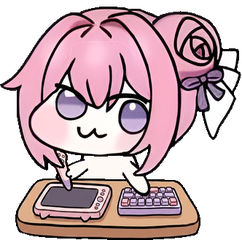
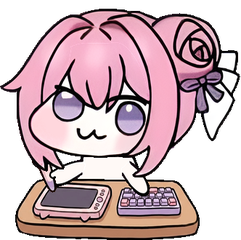
update v1786695753

diff --git a/mascot.py b/mascot.py
@@ -3537,6 +3537,9 @@ class Mascot:
         self._room_art_th = None
         self._photo_after = None     # 단체사진 안내 예약
         self._room_ask_win = None    # 홈에 처음 들어갈 때 묻는 창
+        self._room_pick = None       # 방에서 고른 사람 (없으면 방 전체)
+        self._room_btn_hit = []      # 아래 단추 자리
+        self._room_sent = None
         self._sl_fg = 0.0            # 앞 창을 마지막으로 확인한 시각
         # 물성은 종류마다 다르다. 꺼낼 때 정하지만 여기서도 만들어 둔다
         # (조건문 뒤쪽에서 처음 만들면 몇 분 뒤에 터진다 — 지뢰 13).
@@ -12239,7 +12242,7 @@ class Mascot:
         "parts_dororong_gift": ("dororong-mascot", "parts_dororong_gift"),
         "parts_dororong": ("dororong-mascot", "parts_dororong_gift"),
     }
-    ROOM_COLS, ROOM_CW, ROOM_CH, ROOM_TOP = 3, 230, 236, 62
+    ROOM_COLS, ROOM_CW, ROOM_CH, ROOM_TOP = 3, 230, 248, 62
     ROOM_FIG = 112               # 방에서 캐릭터를 그리는 높이(px)
 
     def _room_on(self):
@@ -12259,10 +12262,16 @@ class Mascot:
             st = "work"
         else:
             st = "away"
+        now = time.time()
+        act = ""
+        if st == "work":
+            # 최근에 무엇을 만졌는지 — 방에서 그 자세로 보여 준다
+            act = "key" if (now - self.last_pointer > 2.0
+                            and now - self.last_key < 1.8) else "pen"
         return {"n": self._room_nick()[:14], "lv": self._level(),
                 "ti": self._title()[:14], "t": int(today // 60), "s": st,
                 "p": round(min(1.0, today / goal), 3),
-                "sl": bool(self.slime)}
+                "a": act, "sl": bool(self.slime)}
 
     def _room_start(self):
         if self.room_net is not None or not self._room_on():
@@ -12320,6 +12329,10 @@ class Mascot:
             self._say("%s가 담요를 덮어 줬어요" % who if who else "담요를 덮어 줬어요",
                       3.5)
             self.smile_until = max(self.smile_until, now + 3.0)
+        elif kind == "cheer":
+            self.smile_until = max(self.smile_until, now + 3.0)
+            self._say("%s가 응원했어요" % who if who else "누가 응원했어요", 3.5)
+            self._safe("room_cheer", self._burst, 10, 26)
         elif kind == "snack":
             self._say("%s가 간식을 놓고 갔어요" % who if who else "간식이 놓여 있어요",
                       3.5)
@@ -12344,7 +12357,8 @@ class Mascot:
             slot = p.get("slot") or ""
             if slot not in self.ROOM_ART or slot in self._room_art_bad:
                 continue
-            for tag in ("seat", "seat_idle"):
+            for tag in ("seat", "seat_idle", "seat_type", "seat_pen",
+                        "seat_pen2"):
                 if os.path.isfile(os.path.join(HERE, slot, tag + ".png")):
                     continue                      # 원본이 여기 있다
                 if not os.path.isfile(os.path.join(self._room_art_dir(),
@@ -12384,6 +12398,8 @@ class Mascot:
         if got is not None:
             return got
         p = os.path.join(self._room_art_dir(), "%s_%s.png" % (slot, tag))
+        if not os.path.isfile(p) and tag not in ("seat", "seat_idle"):
+            return self._room_img(slot, "seat")     # 옛 배포본 — 기본 자세로
         if not os.path.isfile(p):
             # 그 캐릭터 폴더가 내 컴퓨터에 있으면 받아 올 것도 없다
             # (원본을 쓰는 쪽. 친구들은 배포 레포에서 받는다)
@@ -12411,17 +12427,17 @@ class Mascot:
     def _room_palette(self):
         """시간에 따라 방 분위기가 바뀐다 (작업일 기준이 아니라 시계 기준)."""
         h = time.localtime().tm_hour
-        if 6 <= h < 17:
-            return {"wall": "#f7eee4", "dot": "#f1e6d9", "card": "#fffdfa",
-                    "line": "#f0e5d8", "ink": "#68564c", "sub": "#a29186",
-                    "bar": "#fffbf5", "lamp": "#ffe2a8"}
-        if 17 <= h < 20:
-            return {"wall": "#f6e6da", "dot": "#efdccc", "card": "#fffaf3",
-                    "line": "#eeddcc", "ink": "#6b4f42", "sub": "#a89083",
-                    "bar": "#fff7ee", "lamp": "#ffcf8a"}
-        return {"wall": "#e7e3ef", "dot": "#ded9ea", "card": "#faf8ff",
-                "line": "#ddd6ea", "ink": "#4e485e", "sub": "#8d879c",
-                "bar": "#f4f1fa", "lamp": "#cfd6ff"}
+        if 6 <= h < 17:                      # 낮 — 아주 연한 핑크
+            return {"wall": "#fdf2f6", "dot": "#f8e6ee", "card": "#fffcfd",
+                    "line": "#f6e2ea", "ink": "#6f5460", "sub": "#a8919c",
+                    "bar": "#fffafc", "lamp": "#ffd9e6"}
+        if 17 <= h < 20:                     # 저녁 — 조금 더 따뜻하게
+            return {"wall": "#fbeceF".replace("F", "f"), "dot": "#f6dfe6",
+                    "card": "#fffafb", "line": "#f4dde5", "ink": "#6d4e58",
+                    "sub": "#a68b95", "bar": "#fff8fa", "lamp": "#ffcbd9"}
+        return {"wall": "#f2e9f2", "dot": "#e8dced", "card": "#fdfaff",
+                "line": "#e6d9e8", "ink": "#584a5c", "sub": "#96879a",
+                "bar": "#fbf6fc", "lamp": "#e2cfe8"}
 
     def _room_reset(self):
         """방 코드나 켬/끔이 바뀌었을 때 — 끊고 다시 붙는다."""
@@ -12573,7 +12589,7 @@ class Mascot:
         self._room_job = None
         if self.room_win is None:
             return
-        self._room_job = self.root.after(500, self._room_loop)   # 먼저 예약
+        self._room_job = self.root.after(120, self._room_loop)   # 먼저 예약
         self._safe("room_draw", self._room_draw)
 
     def _rr(self, cv, x0, y0, x1, y1, r, **kw):
@@ -12634,9 +12650,7 @@ class Mascot:
             cx0 = int(16 * k) + (i % self.ROOM_COLS) * cw
             cy0 = top + (i // self.ROOM_COLS) * chh
             self._room_one(cv, p, cx0, cy0, cw, chh, P, k)
-        cv.create_text(W // 2, H - 16 * k, anchor="center",
-                       text="캐릭터를 누르면 콕 찔러요 · 자는 사람에겐 담요를 덮어 줘요",
-                       font=self._uf(9), fill=P["sub"])
+        self._room_bar(cv, W, H, P, k, people)
 
     def _room_one(self, cv, p, cx0, cy0, cw, ch, P, k):
         slot = p.get("slot") or ""
@@ -12644,16 +12658,21 @@ class Mascot:
         col = self._room_tone(slot)
         kx0, ky0 = cx0 + 8 * k, cy0 + 6 * k
         kx1, ky1 = cx0 + cw - 8 * k, cy0 + ch - 16 * k
+        picked = (self._room_pick == slot)
         self._rr(cv, kx0, ky0, kx1, ky1, 18 * k, fill=P["card"],
-                 outline=P["line"], width=2)
-        floor = ky1 - 62 * k
+                 outline=col if picked else P["line"], width=3 if picked else 2)
+        floor = ky1 - 74 * k
         self._rr(cv, kx0 + 2, floor, kx1 - 2, ky1 - 2, 16 * k,
                  fill=self._tint(col, 0.72), width=0)
         cv.create_rectangle(kx0 + 2, floor, kx1 - 2, floor + 14 * k,
                             fill=self._tint(col, 0.72), width=0)
-        img = self._room_img(slot, "seat_idle" if sleeping else "seat")
+        img = self._room_img(slot, self._room_pose(p))
         if img is not None:
-            cv.create_image((kx0 + kx1) / 2, floor + 4 * k, image=img,
+            # 아주 살짝 위아래로 — 정지 그림이라도 멈춰 있어 보이지 않는다
+            bob = math.sin(time.time() * 1.7 + hash(slot) % 7) * (1.6 * k)
+            if sleeping:
+                bob *= 0.5
+            cv.create_image((kx0 + kx1) / 2, floor + 4 * k + bob, image=img,
                             anchor="s")
         else:
             cv.create_oval((kx0 + kx1) / 2 - 26 * k, floor - 56 * k,
@@ -12687,6 +12706,62 @@ class Mascot:
                        text="%d%%" % (pr * 100), font=self._uf(8), fill=P["sub"])
         # 자는 표시는 seat_idle 그림에 이미 들어 있다 (여기서 또 그리면 겹친다)
         self._room_hit.append((kx0, ky0, kx1, ky1, slot, sleeping))
+
+    ROOM_BTN = (("콕", "poke", "#ffd6e0"), ("응원", "cheer", "#ffe8ba"),
+                ("담요", "blanket", "#d6e8ff"), ("간식", "snack", "#def0d6"))
+
+    def _room_bar(self, cv, W, H, P, k, people):
+        """아래 단추 줄 — 고른 사람에게 보낸다. 아무도 안 골랐으면 방 전체."""
+        pick = self._room_pick
+        who = next((p for p in people if p.get("slot") == pick), None)
+        if pick == self.char:
+            who, pick = None, None
+        name = str(who.get("n") or "") if who else ""
+        cv.create_text(W // 2, H - 62 * k, anchor="center",
+                       text=("%s에게" % name) if name else "방에 있는 모두에게",
+                       font=self._uf(9), fill=P["sub"])
+        bw, gap = 46 * k, 14 * k
+        tot = len(self.ROOM_BTN) * bw + (len(self.ROOM_BTN) - 1) * gap
+        x = (W - tot) / 2
+        self._room_btn_hit = []
+        for label, kind, col in self.ROOM_BTN:
+            cv.create_oval(x + 2, H - 46 * k + 2, x + bw + 2, H - 46 * k + bw + 2,
+                           fill=P["line"], width=0)
+            cv.create_oval(x, H - 46 * k, x + bw, H - 46 * k + bw,
+                           fill=col, outline="#ffffff", width=2)
+            cv.create_text(x + bw / 2, H - 46 * k + bw / 2, text=label,
+                           font=self._uf(9, True), fill=P["ink"])
+            self._room_btn_hit.append((x, H - 46 * k, x + bw,
+                                       H - 46 * k + bw, kind))
+            x += bw + gap
+
+    def _room_send(self, kind):
+        """단추를 눌렀을 때 — 고른 사람에게, 아무도 안 골랐으면 방 전체에."""
+        if self.room_net is None:
+            return
+        to = self._room_pick
+        if not to or to == self.char:
+            to = "*"
+        self.room_net.send(to, kind)
+        self._room_flash[to if to != "*" else ""] = time.time()
+        self._room_sent = (kind, time.time())
+
+    def _room_pose(self, p):
+        """그 사람이 지금 뭘 하고 있는지에 맞는 그림을 고른다.
+
+        작업 중이면 두 자세를 번갈아 보여 준다 — 한 장만 쓰면 통째로 멈춰
+        보인다. 자세 그림이 없는 옛 배포본이면 _room_img 가 None 을 주므로
+        기본 자세로 물러난다.
+        """
+        if p.get("s") == "sleep":
+            return "seat_idle"
+        if p.get("s") != "work":
+            return "seat"
+        if p.get("a") == "key":
+            return "seat_type"
+        # 0.7초마다 손 위치가 바뀐다 (사람마다 박자를 어긋나게)
+        n = int(time.time() / 0.7 + (hash(p.get("slot") or "") % 3))
+        return "seat_pen" if n % 2 else "seat_pen2"
 
     def _room_tw(self, cv, text, font):
         """글자 폭 — 캔버스에 잠깐 그려 재고 지운다 (캐시는 안 쌓는다)."""
@@ -12785,15 +12860,21 @@ class Mascot:
         return tuple(int(str(c)[i:i + 2], 16) for i in (1, 3, 5))
 
     def _room_click(self, e):
+        for x0, y0, x1, y1, kind in self._room_btn_hit:
+            if x0 <= e.x <= x1 and y0 <= e.y <= y1:
+                self._safe("room_btn", self._room_send, kind)
+                return
         for x0, y0, x1, y1, slot, sleeping in self._room_hit:
             if x0 <= e.x <= x1 and y0 <= e.y <= y1:
-                if slot == self.char:
-                    self._say("저예요", 2.0)
-                    return
-                if self.room_net is not None:
+                # 누르면 고른다. 한 번 더 누르면 푼다(방 전체로 보낸다).
+                self._room_pick = None if self._room_pick == slot else slot
+                if slot != self.char and self.room_net is not None:
                     self.room_net.send(slot, "blanket" if sleeping else "poke")
-                self._room_flash[slot] = time.time()
+                    self._room_flash[slot] = time.time()
+                self._safe("room_draw", self._room_draw)
                 return
+        self._room_pick = None
+        self._safe("room_draw", self._room_draw)
 
     # ── 프리뷰 ───────────────────────────────────────────────────────────
     def _preview_shots(self):
